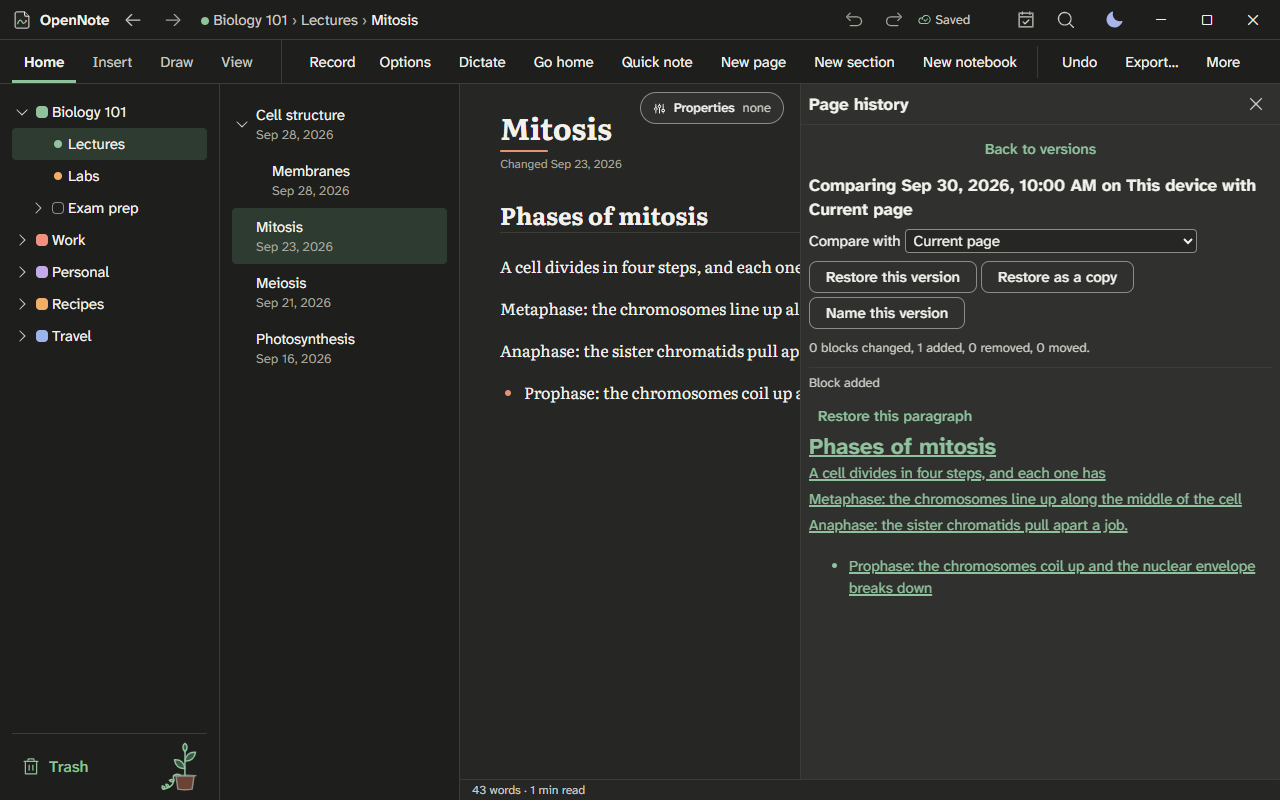
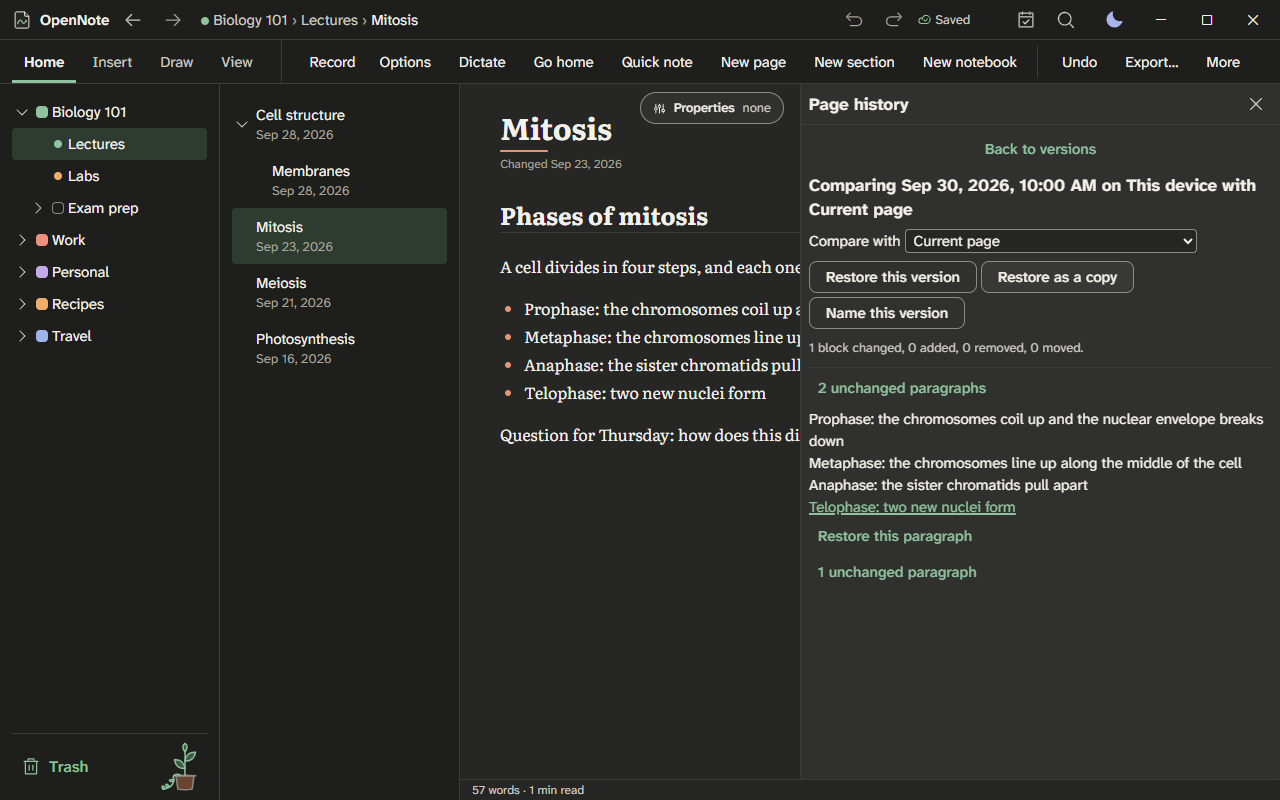
Retake the page history and chemistry pictures with true captions
The page history picture showed a garbled page: the scene typed into the
middle of a sentence, and compared against the wrong version. It now
saves the clean Mitosis page, adds the Telophase bullet, and compares
with the version before it. The compare view ran a list's items
together ("breaks downMetaphase") because it diffed the list's
textContent, so it now puts a line break between inner blocks and shows
them on their own lines. Only the new item is marked.

The kit-chemistry and kit-chemistry-structure captions named the
Chemistry and materials kit, but the pictures show the separate
Chemistry calculators and Chemical structures windows. The captions now
name those windows, the structure picture is taller so its buttons fit,
and a new kit-chemmat picture shows the kit itself on its equilibrium
tab. Taking it showed that sentence answers in the kit's results kept
to one line and pushed the numbers out of view, so word answers now
wrap and units stay beside their numbers.

The quick-capture and workspace-empty captions described a section
choice and a window that are not there; they now say what the pictures
show. The registry test gets a boundary exception for its late imports.

Changed region(s): [[0.375, 0.375, 1.0, 0.75], [0.375, 0.9688, 0.4688, 1.0]]

diff --git a/tests/ui/docscap/scenes/g1.ts b/tests/ui/docscap/scenes/g1.ts
@@ -281,27 +281,40 @@ export const scenes: (h: Helpers) => Scene[] = (h) => {
     {
       name: 'page-history',
       run: async (p) => {
+        // The clean page without its last phase, saved as a version, then one real edit: the Telophase bullet.
+        const away = async () => {
+          await pagesTree(p).getByRole('treeitem', { name: 'Meiosis' }).click();
+          await pagesTree(p).getByRole('treeitem', { name: 'Mitosis' }).click();
+          await commandsReady(p);
+        };
         await h.openPage(p, 'Lectures', 'Mitosis');
         await commandsReady(p);
-        await h.write(p, MITOSIS.slice(0, 3), 'Prophase');
-        await pagesTree(p).getByRole('treeitem', { name: 'Meiosis' }).click();
-        await pagesTree(p).getByRole('treeitem', { name: 'Mitosis' }).click();
-        await commandsReady(p);
-        await toEnd(p);
-        await keys(
+        await h.write(
           p,
-          '{Enter}Metaphase: the chromosomes line up along the middle of the cell{Enter}Anaphase: the sister chromatids pull apart',
+          MITOSIS.filter((line) => !line.startsWith('Telophase')),
+          'Question for Thursday',
         );
-        await expect.poll(() => p.evaluate(() => document.body.innerText.includes('Anaphase'))).toBe(true);
-        await pagesTree(p).getByRole('treeitem', { name: 'Meiosis' }).click();
-        await pagesTree(p).getByRole('treeitem', { name: 'Mitosis' }).click();
-        await commandsReady(p);
+        await away();
+        await p.getByText('Anaphase: the sister chromatids pull apart', { exact: true }).click();
+        await p.keyboard.press('End');
+        await keys(p, '{Enter}Telophase: two new nuclei form');
+        await expect
+          .poll(() => p.evaluate(() => document.body.innerText.includes('Telophase: two new nuclei form')))
+          .toBe(true);
+        await p.waitForTimeout(1500);
+        await away();
         await h.command(p, 'Page history', /^Page history/);
         const panel = p
           .getByRole('region', { name: 'Page history' })
           .or(p.getByRole('complementary', { name: 'Page history' }));
         await panel.waitFor();
-        await panel.getByRole('list', { name: 'Versions' }).getByRole('button').last().click();
+        // The older of the two versions saved on closing the page is the one without the Telophase bullet.
+        await panel
+          .getByRole('list', { name: 'Versions' })
+          .getByRole('button')
+          .filter({ hasText: 'Saved when you closed the page' })
+          .last()
+          .click();
         await p.waitForTimeout(800);
       },
     },

diff --git a/tests/ui/docscap/scenes/g3.ts b/tests/ui/docscap/scenes/g3.ts
@@ -178,16 +178,29 @@ export const scenes: (h: Helpers) => Scene[] = (h) => {
       query: 'chemistry calc',
       window: 'Chemistry calculators',
     }),
-    kit('kit-chemistry-structure', {
-      command: 'Open the chemical structure drawer',
-      query: 'chemical structure',
-      window: 'Chemical structures',
-      after: async (d) => {
-        await d.getByLabel('Structure as SMILES text').fill('CC(=O)Oc1ccccc1C(=O)O');
-        await d.getByRole('img', { name: /Skeletal formula/ }).waitFor();
-        await d.getByLabel('Structure as SMILES text').blur();
+    kit(
+      'kit-chemistry-structure',
+      {
+        command: 'Open the chemical structure drawer',
+        query: 'chemical structure',
+        window: 'Chemical structures',
+        after: async (d) => {
+          await d.getByLabel('Structure as SMILES text').fill('CC(=O)Oc1ccccc1C(=O)O');
+          await d.getByRole('img', { name: /Skeletal formula/ }).waitFor();
+          await d.getByLabel('Structure as SMILES text').blur();
+        },
       },
-    }),
+      { width: 1280, height: 900 },
+    ),
+    kit(
+      'kit-chemmat',
+      {
+        command: 'Open the chemical equilibrium tool',
+        window: 'Chemistry and materials',
+        scroll: (d) => d.getByText('Equilibrium constant K', { exact: true }),
+      },
+      { width: 1280, height: 900 },
+    ),
     kit('kit-earth', {
       command: 'Open the earth sciences kit',
       window: 'Earth sciences',

diff --git a/app/src/editor/diff/pageDiff.ts b/app/src/editor/diff/pageDiff.ts
@@ -76,14 +76,16 @@ const markdownOf = (block: DiffBlock | undefined) => {
   return typeof value === 'string' ? value : '';
 };
 
+/** A block's text with a line break between its inner blocks, so a list's items do not run together. */
+const textOf = (node: PMNode): string => node.textBetween(0, node.content.size, '\n');
+
 /** Pairs a run of removed paragraphs with the run of added ones after it, in order, when their words match. */
 function pairRuns(removed: ParagraphChange[], added: ParagraphChange[]): ParagraphChange[] {
   const out: ParagraphChange[] = [];
   let next = 0;
   for (const gone of removed) {
     const match = added.findIndex(
-      (item, index) =>
-        index >= next && wordSimilarity(gone.before!.node.textContent, item.after!.node.textContent) >= PAIRING,
+      (item, index) => index >= next && wordSimilarity(textOf(gone.before!.node), textOf(item.after!.node)) >= PAIRING,
     );
     if (match < 0) {
       out.push(gone);
@@ -91,7 +93,7 @@ function pairRuns(removed: ParagraphChange[], added: ParagraphChange[]): Paragra
     }
     out.push(...added.slice(next, match));
     const pair = added[match];
-    const words = diffWords(gone.before!.node.textContent, pair.after!.node.textContent);
+    const words = diffWords(textOf(gone.before!.node), textOf(pair.after!.node));
     out.push({ status: 'changed', before: gone.before, after: pair.after, words });
     next = match + 1;
   }

diff --git a/docs/tools/featureTools.ts b/docs/tools/featureTools.ts
@@ -72,7 +72,7 @@ export const TOOL_ENTRIES: Readonly<Record<string, ToolEntry>> = {
   vectors: row(math, 'Vector tools'),
   solids: row(math, 'Solids of revolution'),
   projectile: row(math, 'Projectile simulator'),
-  chemcalc: row(subject, 'Chemistry calculators'),
+  chemcalc: row(subject, 'Chemistry calculators', 'kit-chemistry'),
   structure: row(subject, 'Chemical structures', 'kit-chemistry-structure'),
   properties: row(subject, 'Property tables'),
   formulasheet: row(math, 'Formula sheet builder'),
@@ -218,7 +218,7 @@ export const TOOL_ENTRIES: Readonly<Record<string, ToolEntry>> = {
   kitelectrical: asKit(row(engineering, 'Circuits and energy', 'kit-circuits', 'kits.electrical.')),
   'kit-solids': asKit(row(engineering, 'Solid mechanics', 'kit-solids-fem', 'tools.kitSolids.')),
   kitaero: asKit(row(engineering, 'Aerospace', 'kit-aerospace', 'kits.aero.')),
-  'kit-chemmat': asKit(row(subject, 'Chemistry and materials', 'kit-chemistry', 'tools.kitChemMat.')),
+  'kit-chemmat': asKit(row(subject, 'Chemistry and materials', 'kit-chemmat', 'tools.kitChemMat.')),
   'kit-thermo': asKit(row(engineering, 'Thermodynamics', 'kit-thermo', 'tools.kitThermo.')),
   'kit-fluidheat': asKit(row(engineering, 'Fluids and heat transfer', 'kit-fluid-heat', 'tools.kitFluidHeat.')),
   'kit-control': asKit(row(engineering, 'Dynamics and control', 'kit-control', 'tools.kitControl.')),

diff --git a/app/src/editor/diff/pageDiff.test.ts b/app/src/editor/diff/pageDiff.test.ts
@@ -45,6 +45,12 @@ describe('page diff', () => {
     expect(changes[3].after?.index).toBe(2);
   });
 
+  it('keeps the items of a changed list on their own lines, so only the new item is marked', () => {
+    const [change] = diffText('- Prophase\n- Anaphase: pull apart', '- Prophase\n- Anaphase: pull apart\n- Telophase');
+    expect(change.status).toBe('changed');
+    expect(change.words?.filter((part) => part.kind !== 'same').map((part) => part.text)).toEqual(['\nTelophase']);
+  });
+
   it('aligns blocks by ID, keeps removed blocks in place, and notes moves', () => {
     const before = { blocks: [text('a', 'a0', 'First.'), text('b', 'a1', 'Second.'), text('c', 'a2', 'Third.')] };
     const after = {

diff --git a/app/src/app/featureRegistry.test.ts b/app/src/app/featureRegistry.test.ts
@@ -2,6 +2,7 @@
 // commands, title bar items, tool windows, settings sections, and setup steps with docs/tools/registry.json.
 // docs/tools/featureList.ts turns that file into docs/FEATURE-LIST.md. `npm run docs:features` rewrites the file,
 // since it sets OPENNOTE_WRITE_REGISTRY. The test also fails when something registered has no place in the list.
+/* eslint-disable opennote/feature-boundaries -- The test loads the registrations that run late, inside their features. */
 import { readFileSync, writeFileSync } from 'node:fs';
 import { join } from 'node:path';
 import { describe, expect, it } from 'vitest';

diff --git a/app/src/features/tools/chemmat/ui/Results.tsx b/app/src/features/tools/chemmat/ui/Results.tsx
@@ -27,7 +27,8 @@ function ResultRows({ solved, system }: { solved: Solved; system: System }) {
               return (
                 <tr key={i}>
                   <th scope="row">{s.label}</th>
-                  <td className={chem.numeric}>{s.value}</td>
+                  {/* A word answer is a sentence, so it wraps; only a number keeps to one line at the end. */}
+                  <td className={row.word ? undefined : chem.numeric}>{s.value}</td>
                   <td>{s.unit}</td>
                 </tr>
               );

diff --git a/app/src/features/tools/chemmat/ui/chemmat.module.css b/app/src/features/tools/chemmat/ui/chemmat.module.css
@@ -30,6 +30,11 @@
     font-weight: var(--font-weight-semibold);
   }
 
+  /* A unit such as mol/L stays on one line beside its number. */
+  .rows td:last-child {
+    white-space: nowrap;
+  }
+
   .heading {
     margin: var(--space-3) 0 var(--space-1);
     font-size: var(--type-small-size);

diff --git a/app/src/features/page/history/history.module.css b/app/src/features/page/history/history.module.css
@@ -141,6 +141,8 @@
   .static > :first-child,
   .words {
     margin-block-start: 0;
+    /* Each item of a changed list is on its own line, as on the page. */
+    white-space: pre-line;
   }
 
   .static > :last-child,

diff --git a/docs/FEATURE-LIST.md b/docs/FEATURE-LIST.md
@@ -712,9 +712,9 @@ The app registers 848 commands and 47 tool windows. 24 of the windows are subjec
 
 ![Notebooks, pages, and a page of typed notes with a heading, a list, and a page link.](screens/workspace-light.png)
 
-**workspace-empty.** The empty state: no notebooks yet, and the desk by the window beside the page card. ([dark](screens/workspace-empty-dark.png))
+**workspace-empty.** The empty state: no notebooks yet, and an open book and candle on the page card. ([dark](screens/workspace-empty-dark.png))
 
-![The empty state: no notebooks yet, and the desk by the window beside the page card.](screens/workspace-empty-light.png)
+![The empty state: no notebooks yet, and an open book and candle on the page card.](screens/workspace-empty-light.png)
 
 **home-screen.** The Home screen with recent pages, pinned pages, and what is coming up. ([dark](screens/home-screen-dark.png))
 
@@ -736,9 +736,9 @@ The app registers 848 commands and 47 tool windows. 24 of the windows are subjec
 
 ![Focus mode, with the panes and the command bar hidden around the page.](screens/focus-mode-light.png)
 
-**quick-capture.** The Quick note window, a small window for jotting a note into a chosen section. ([dark](screens/quick-capture-dark.png))
+**quick-capture.** The Quick note window, which saves a note in Quick notes. ([dark](screens/quick-capture-dark.png))
 
-![The Quick note window, a small window for jotting a note into a chosen section.](screens/quick-capture-light.png)
+![The Quick note window, which saves a note in Quick notes.](screens/quick-capture-light.png)
 
 **tab-home.** The Home tab with the recording control and the formatting bar. ([dark](screens/tab-home-dark.png))
 
@@ -1490,9 +1490,9 @@ Commands (8):
 
 Type SMILES text or choose a starting structure, and see a skeletal formula with its formula and molar mass.
 
-**kit-chemistry-structure.** The chemical structure drawer of the Chemistry and materials kit, with a drawn molecule. ([dark](screens/kit-chemistry-structure-dark.png))
+**kit-chemistry-structure.** The Chemical structures window drawing aspirin from SMILES. ([dark](screens/kit-chemistry-structure-dark.png))
 
-![The chemical structure drawer of the Chemistry and materials kit, with a drawn molecule.](screens/kit-chemistry-structure-light.png)
+![The Chemical structures window drawing aspirin from SMILES.](screens/kit-chemistry-structure-light.png)
 
 Open it with the command "Open the chemical structure drawer" (Ctrl+Alt+Z).
 
@@ -1500,9 +1500,9 @@ Open it with the command "Open the chemical structure drawer" (Ctrl+Alt+Z).
 
 Thermochemistry, equilibrium, acids and bases, electrochemistry, kinetics, solutions, crystals and diffraction, defects and diffusion, phase diagrams, and atoms and bonding.
 
-**kit-chemistry.** The chemistry calculators of the Chemistry and materials kit, with a balanced equation. ([dark](screens/kit-chemistry-dark.png))
+**kit-chemmat.** The Chemistry and materials kit on its chemical equilibrium tab, solving an ICE table. ([dark](screens/kit-chemmat-dark.png))
 
-![The chemistry calculators of the Chemistry and materials kit, with a balanced equation.](screens/kit-chemistry-light.png)
+![The Chemistry and materials kit on its chemical equilibrium tab, solving an ICE table.](screens/kit-chemmat-light.png)
 
 Open it with the command "Open Chemistry and materials".
 
@@ -1522,6 +1522,10 @@ Commands (10):
 #### Chemistry calculators
 
 One window with six tabs: balancing, molar mass, stoichiometry, gas laws, solutions, and titration.
+
+**kit-chemistry.** The Chemistry calculators window balancing an equation. ([dark](screens/kit-chemistry-dark.png))
+
+![The Chemistry calculators window balancing an equation.](screens/kit-chemistry-light.png)
 
 Open it with the command "Open the chemistry calculators" (Ctrl+Alt+Y).
 

diff --git a/docs/screens/README.md b/docs/screens/README.md
@@ -48,13 +48,13 @@ Every name below has two files, one ending in `-light.png` and one in `-dark.png
 ## The workspace
 
 - [workspace](workspace-light.png) ([dark](workspace-dark.png)): Notebooks, pages, and a page of typed notes with a heading, a list, and a page link.
-- [workspace-empty](workspace-empty-light.png) ([dark](workspace-empty-dark.png)): The empty state: no notebooks yet, and the desk by the window beside the page card.
+- [workspace-empty](workspace-empty-light.png) ([dark](workspace-empty-dark.png)): The empty state: no notebooks yet, and an open book and candle on the page card.
 - [home-screen](home-screen-light.png) ([dark](home-screen-dark.png)): The Home screen with recent pages, pinned pages, and what is coming up.
 - [title-bar-states](title-bar-states-light.png) ([dark](title-bar-states-dark.png)): The title bar with back and forward, the page path, the save status, and a running timer chip.
 - [page-tabs](page-tabs-light.png) ([dark](page-tabs-dark.png)): Three pages open as tabs in the strip above the page.
 - [compact-layout](compact-layout-light.png) ([dark](compact-layout-dark.png)): The compact layout of a narrow window, with the app bar and one pane at a time.
 - [focus-mode](focus-mode-light.png) ([dark](focus-mode-dark.png)): Focus mode, with the panes and the command bar hidden around the page.
-- [quick-capture](quick-capture-light.png) ([dark](quick-capture-dark.png)): The Quick note window, a small window for jotting a note into a chosen section.
+- [quick-capture](quick-capture-light.png) ([dark](quick-capture-dark.png)): The Quick note window, which saves a note in Quick notes.
 - [tab-home](tab-home-light.png) ([dark](tab-home-dark.png)): The Home tab with the recording control and the formatting bar.
 - [tab-insert](tab-insert-light.png) ([dark](tab-insert-dark.png)): The Insert tab: link, code block, callout, divider, template, file, equation, and table.
 - [tab-draw](tab-draw-light.png) ([dark](tab-draw-dark.png)): The Draw tab: the tools, the pen slots, color, and width (1600 by 900).
@@ -160,8 +160,9 @@ Every name below has two files, one ending in `-light.png` and one in `-dark.png
 
 - [kit-physics](kit-physics-light.png) ([dark](kit-physics-dark.png)): The Physics kit on its electric and magnetic fields tab, with field lines around two charges.
 - [kit-modern-physics](kit-modern-physics-light.png) ([dark](kit-modern-physics-dark.png)): The Modern physics and astronomy kit on its quantum wells and barriers tab.
-- [kit-chemistry](kit-chemistry-light.png) ([dark](kit-chemistry-dark.png)): The chemistry calculators of the Chemistry and materials kit, with a balanced equation.
-- [kit-chemistry-structure](kit-chemistry-structure-light.png) ([dark](kit-chemistry-structure-dark.png)): The chemical structure drawer of the Chemistry and materials kit, with a drawn molecule.
+- [kit-chemistry](kit-chemistry-light.png) ([dark](kit-chemistry-dark.png)): The Chemistry calculators window balancing an equation.
+- [kit-chemistry-structure](kit-chemistry-structure-light.png) ([dark](kit-chemistry-structure-dark.png)): The Chemical structures window drawing aspirin from SMILES.
+- [kit-chemmat](kit-chemmat-light.png) ([dark](kit-chemmat-dark.png)): The Chemistry and materials kit on its chemical equilibrium tab, solving an ICE table.
 - [kit-earth](kit-earth-light.png) ([dark](kit-earth-dark.png)): The Earth sciences kit on its atmospheric thermodynamics and soundings tab.
 - [kit-life-science](kit-life-science-light.png) ([dark](kit-life-science-dark.png)): The Life science kit on its population dynamics tab, with a population curve.
 - [kit-biology](kit-biology-light.png) ([dark](kit-biology-dark.png)): The Biology tools kit on its DNA and RNA sequences tab, with a sequence and its details.

diff --git a/docs/help/chemistry-and-data.md b/docs/help/chemistry-and-data.md
@@ -2,7 +2,7 @@
 
 Balance equations, solve chemistry problems with steps, draw structures, and look up steam, gas, and material properties. Everything works offline and keeps your work on this computer.
 
-![The chemistry calculators of the Chemistry and materials kit, with a balanced equation](../screens/kit-chemistry-light.png)
+![The Chemistry calculators window balancing an equation](../screens/kit-chemistry-light.png)
 
 Open any of these from the Insert tab (Math group). The shortcuts are Ctrl+Alt+Y for the calculators, Ctrl+Alt+Z for the structure drawer, and Ctrl+Alt+U for the tables. You can also use the command palette (Ctrl+K) and search for the chemistry calculators, the chemical structure drawer, or the steam, gas, and materials tables. Each opens in a small window that you can move, pin, and pop out.
 
